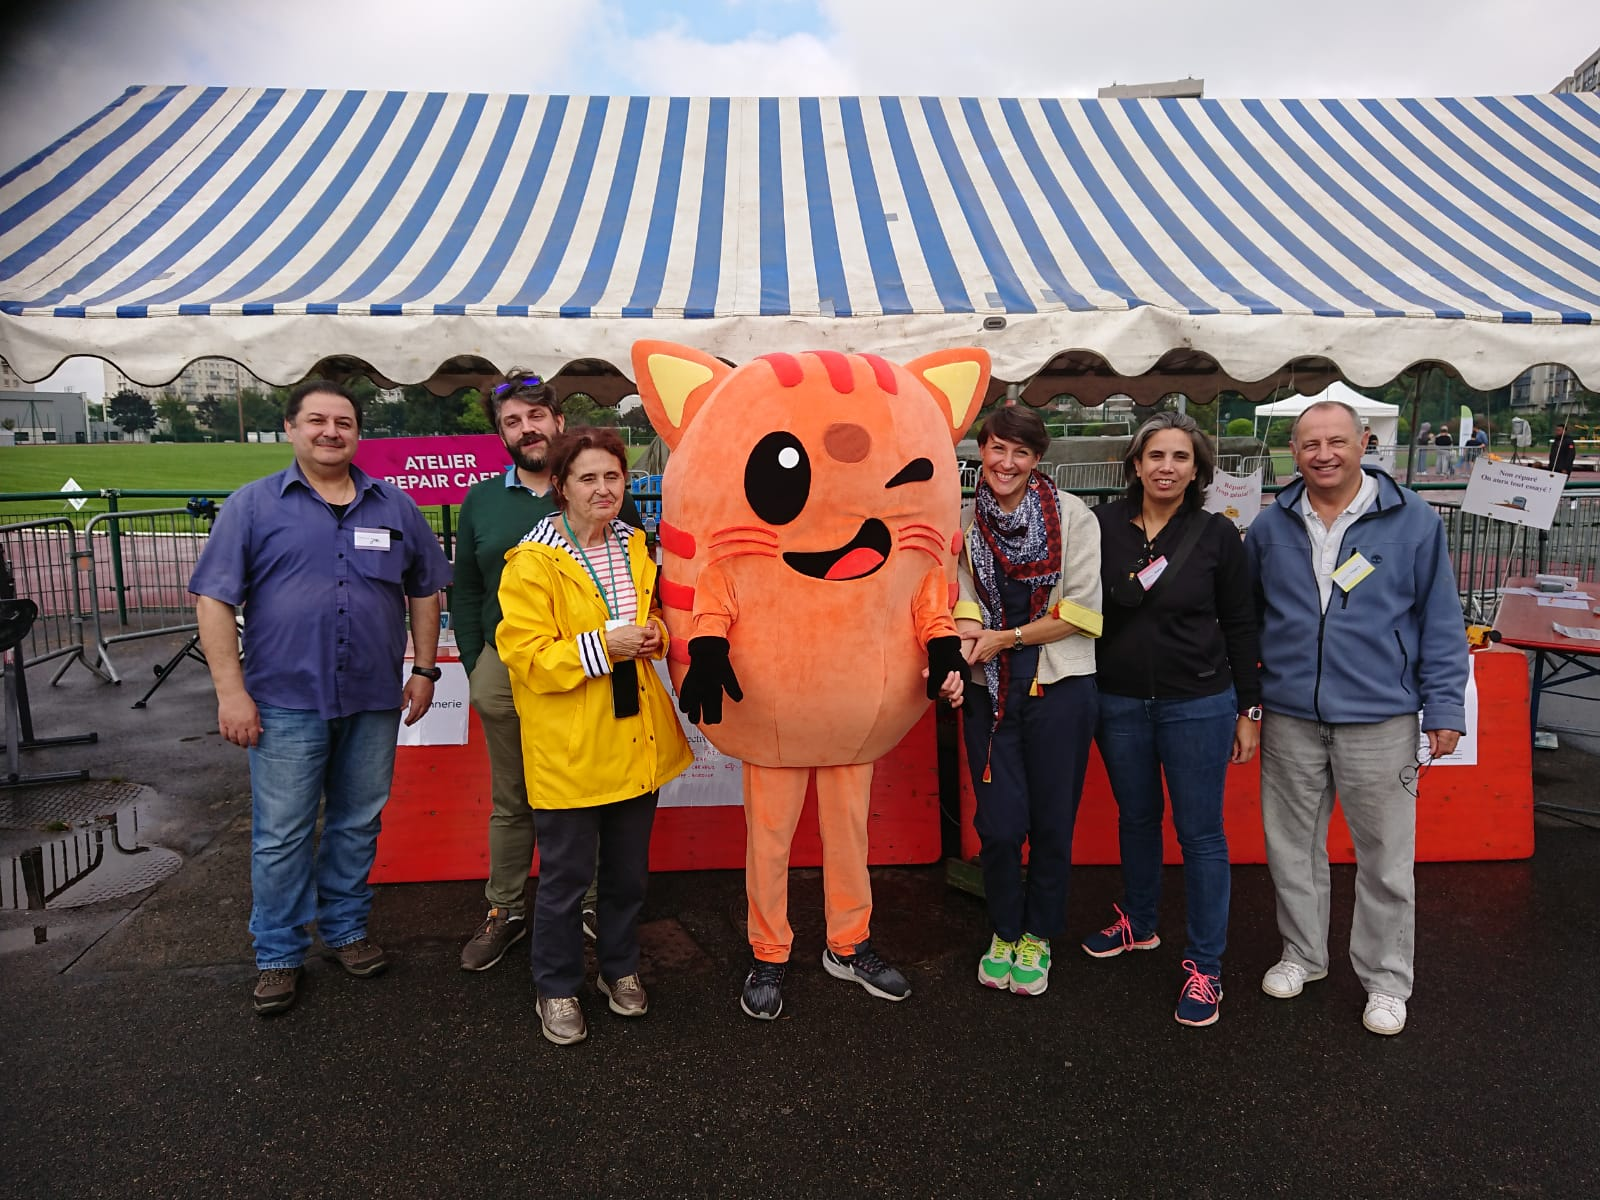
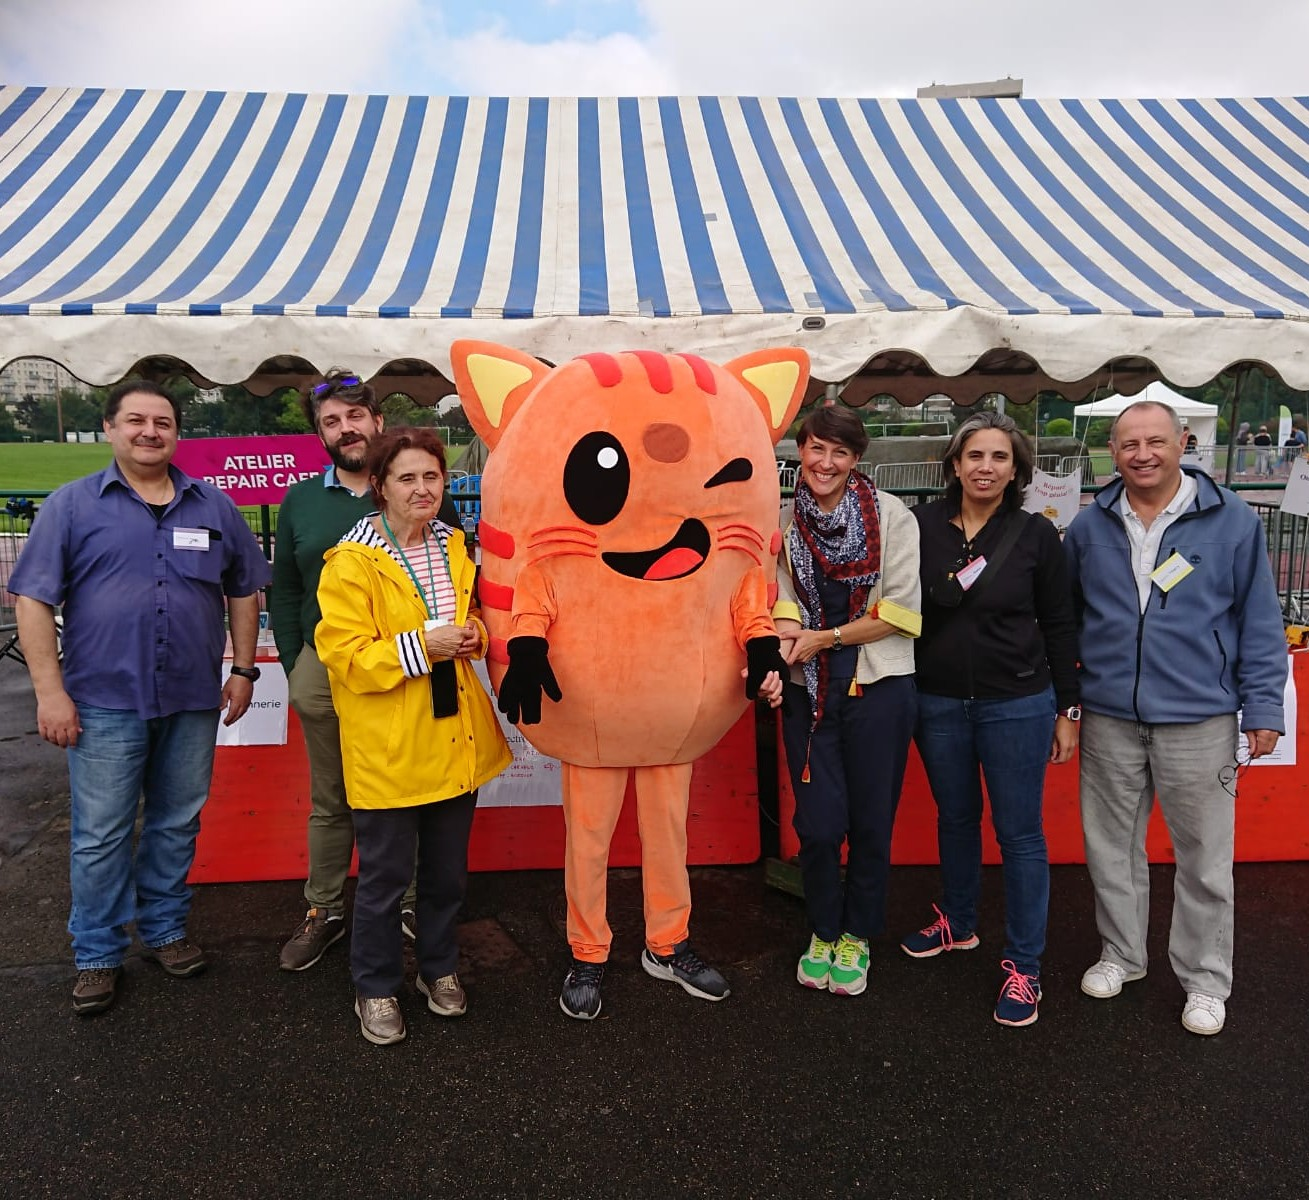
Replace chat (5).jpeg with chat (16).jpeg in hero panel

diff --git a/index.html b/index.html
@@ -82,7 +82,7 @@
           </article>
         </div>
         <figure class="media-card">
-          <img src="assets/photo/chat (5).jpeg" alt="Réparation de vélos en extérieur" loading="lazy" />
+          <img src="assets/photo/chat (16).jpeg" alt="Atelier de réparation" loading="lazy" />
         </figure>
       </div>
     </section>
